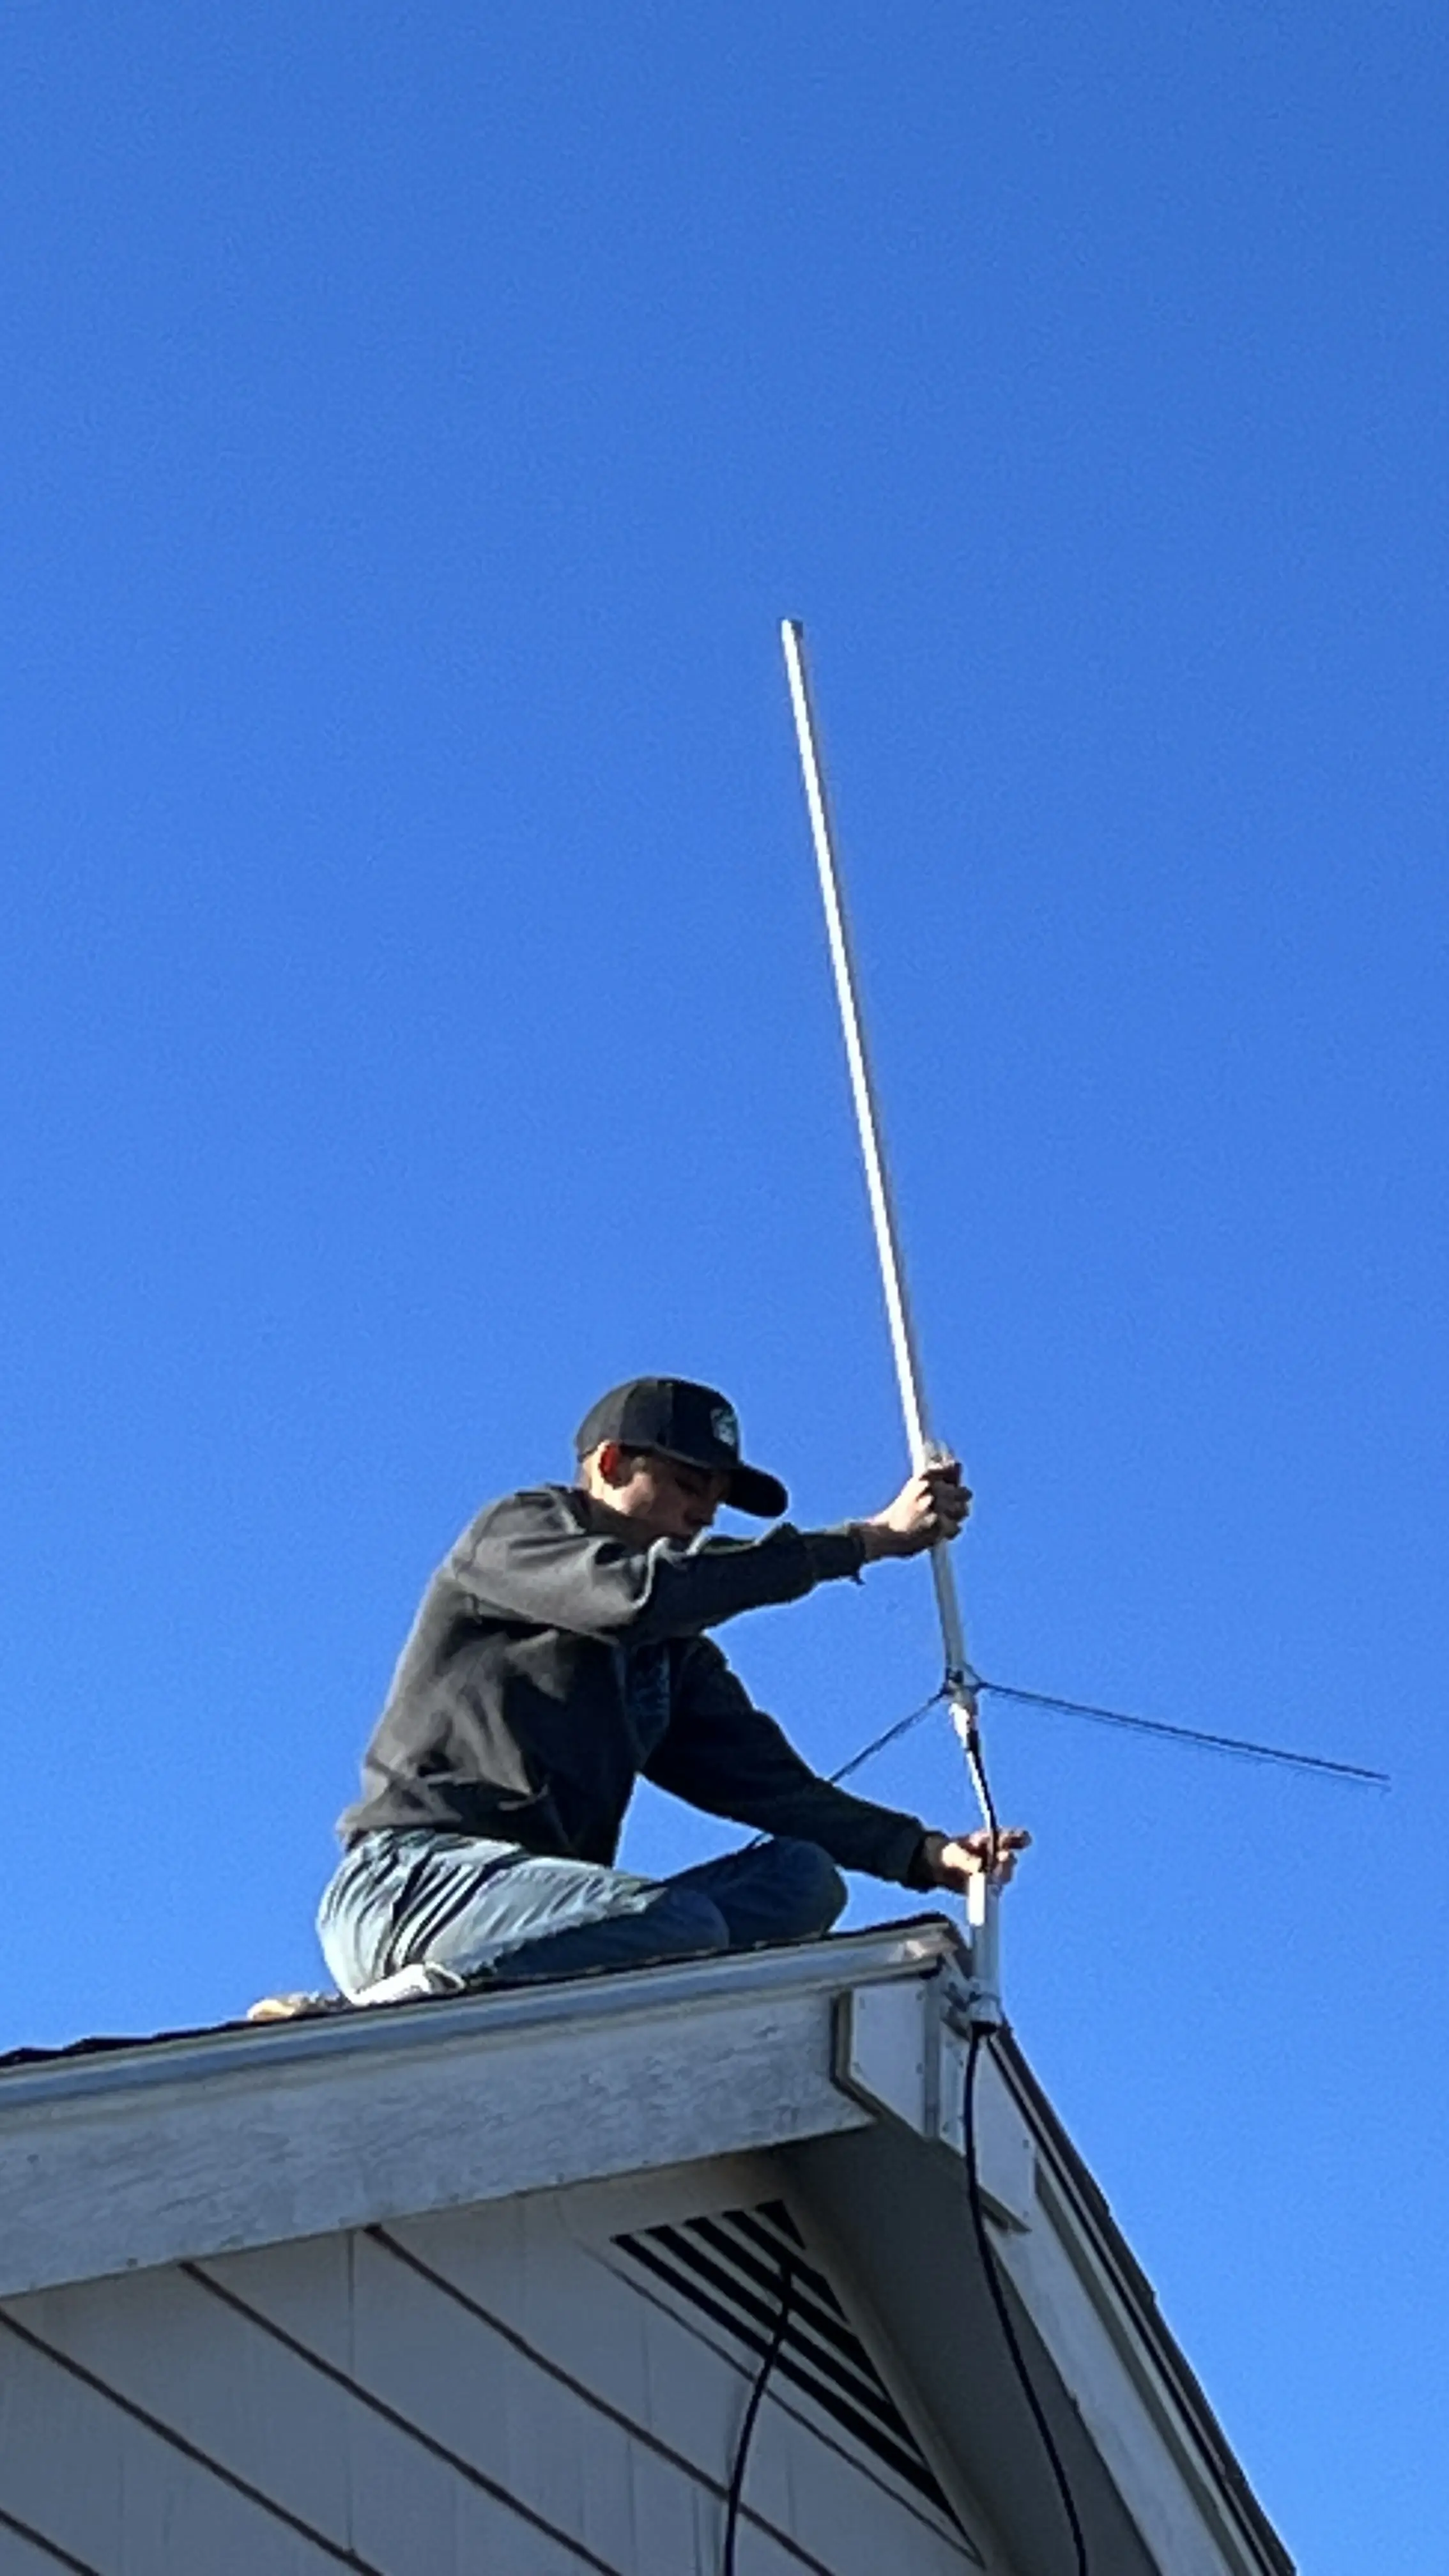
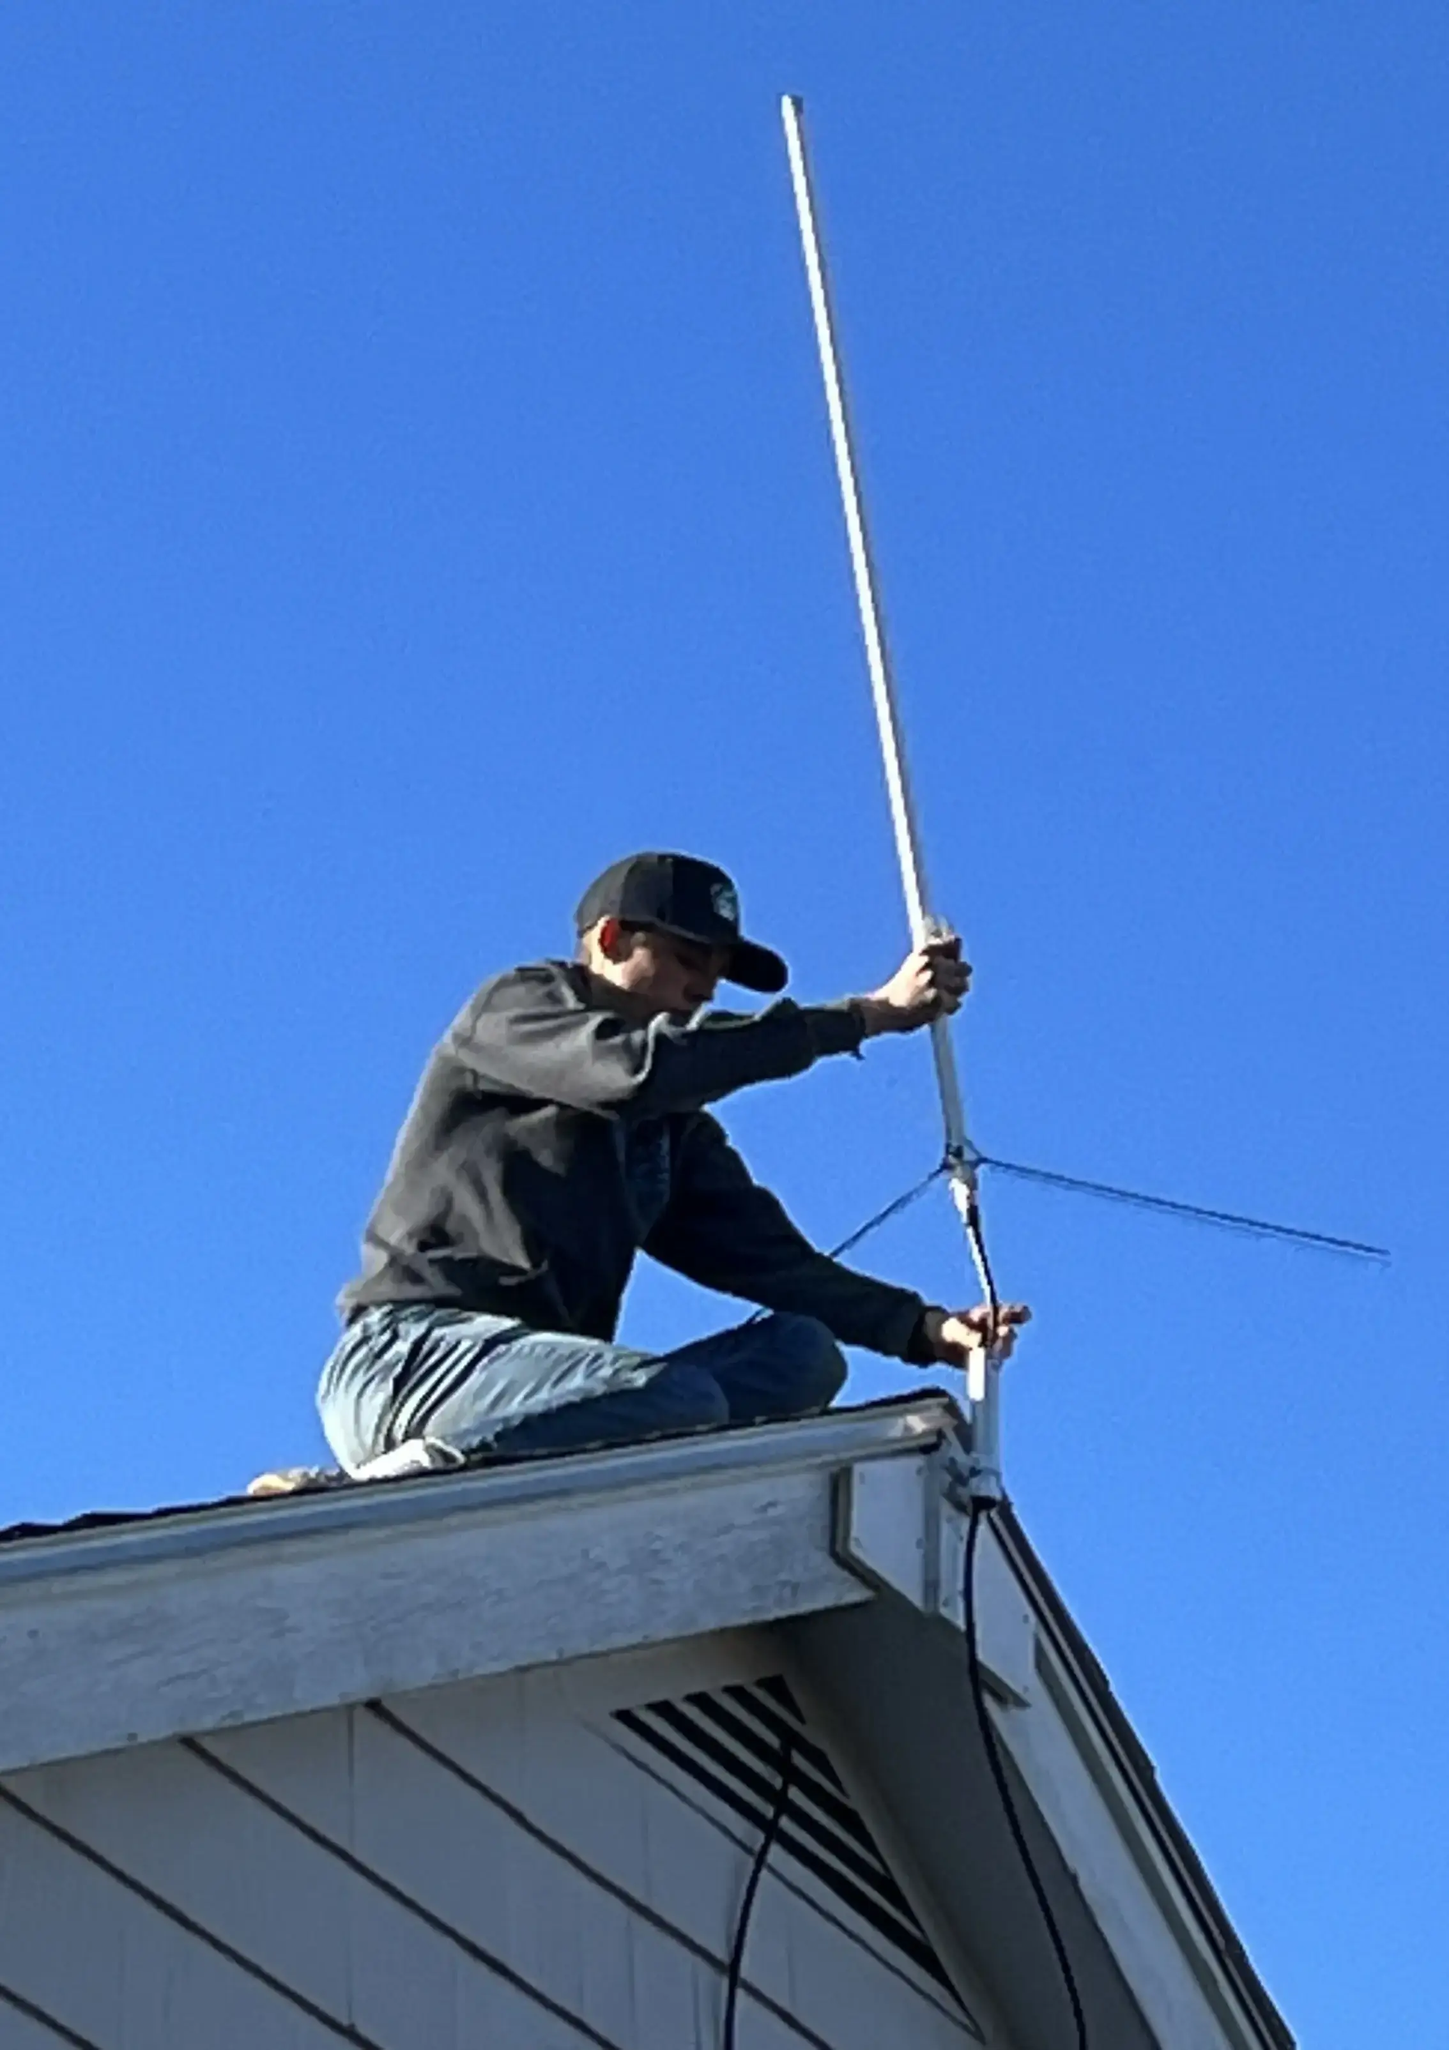
image resize

diff --git a/public/posts/websdr/index.html b/public/posts/websdr/index.html
@@ -162,12 +162,12 @@ document.addEventListener("DOMContentLoaded", () => {
       
         <li class="px-5">
           <a
-            href="/files/cv.pdf"
-            alt="Check out my CV"
-            title="Check out my CV"
+            href="https://uptime.mileshilliard.com/status/uptime"
+            alt="View in-demand service status."
+            title="View in-demand service status."
             target="_self"
             class="cursor-pointer font-normal text-base">
-            My CV
+            Status Page
           </a>
         </li>
       
@@ -243,12 +243,12 @@ document.addEventListener("DOMContentLoaded", () => {
       
         <li class="px-5">
           <a
-            href="/files/cv.pdf"
-            alt="Check out my CV"
-            title="Check out my CV"
+            href="https://uptime.mileshilliard.com/status/uptime"
+            alt="View in-demand service status."
+            title="View in-demand service status."
             target="_self"
             class="cursor-pointer font-normal text-base">
-            ꞏ My CV
+            ꞏ Status Page
           </a>
         </li>
         <br>

diff --git a/public/posts/11-03-25/index.html b/public/posts/11-03-25/index.html
@@ -279,7 +279,7 @@ document.addEventListener("DOMContentLoaded", () => {
       <div class="bg-gray-50 px-8 py-10 rounded-md post-content">
         <img
           class="rounded-md mb-4 w-full"
-          src="/posts/11-03-25//finished.webp"
+          src="/posts/11-03-25//wire2.webp"
           alt="Ham Radio Antenna Mount (Diamond x50)"
           title="Ham Radio Antenna Mount (Diamond x50)" />
           

diff --git a/public/posts/index.html b/public/posts/index.html
@@ -284,7 +284,7 @@ document.addEventListener("DOMContentLoaded", () => {
         <a href="/posts/11-03-25/">
           <img
             class="rounded-md mb-4"
-            src="/posts/11-03-25//finished.webp"
+            src="/posts/11-03-25//wire2.webp"
             alt="Ham Radio Antenna Mount (Diamond x50)"
             title="Ham Radio Antenna Mount (Diamond x50)" />
         </a>

diff --git a/public/tags/antenna/index.html b/public/tags/antenna/index.html
@@ -284,7 +284,7 @@ document.addEventListener("DOMContentLoaded", () => {
         <a href="/posts/11-03-25/">
           <img
             class="rounded-md mb-4"
-            src="/posts/11-03-25//finished.webp"
+            src="/posts/11-03-25//wire2.webp"
             alt="Ham Radio Antenna Mount (Diamond x50)"
             title="Ham Radio Antenna Mount (Diamond x50)" />
         </a>

diff --git a/public/tags/ham/index.html b/public/tags/ham/index.html
@@ -284,7 +284,7 @@ document.addEventListener("DOMContentLoaded", () => {
         <a href="/posts/11-03-25/">
           <img
             class="rounded-md mb-4"
-            src="/posts/11-03-25//finished.webp"
+            src="/posts/11-03-25//wire2.webp"
             alt="Ham Radio Antenna Mount (Diamond x50)"
             title="Ham Radio Antenna Mount (Diamond x50)" />
         </a>

diff --git a/public/tags/hardware/index.html b/public/tags/hardware/index.html
@@ -284,7 +284,7 @@ document.addEventListener("DOMContentLoaded", () => {
         <a href="/posts/11-03-25/">
           <img
             class="rounded-md mb-4"
-            src="/posts/11-03-25//finished.webp"
+            src="/posts/11-03-25//wire2.webp"
             alt="Ham Radio Antenna Mount (Diamond x50)"
             title="Ham Radio Antenna Mount (Diamond x50)" />
         </a>

diff --git a/public/tags/radio/index.html b/public/tags/radio/index.html
@@ -284,7 +284,7 @@ document.addEventListener("DOMContentLoaded", () => {
         <a href="/posts/11-03-25/">
           <img
             class="rounded-md mb-4"
-            src="/posts/11-03-25//finished.webp"
+            src="/posts/11-03-25//wire2.webp"
             alt="Ham Radio Antenna Mount (Diamond x50)"
             title="Ham Radio Antenna Mount (Diamond x50)" />
         </a>

diff --git a/content/posts/11-03-25/index.md b/content/posts/11-03-25/index.md
@@ -2,7 +2,7 @@
 title: 'Ham Radio Antenna Mount (Diamond x50)'
 date: 2025-11-04T21:41:29-0500
 tags: ['ham', 'radio', 'hardware', 'antenna']
-image: 'finished.webp'
+image: 'wire2.webp'
 draft: false
 ---
 
